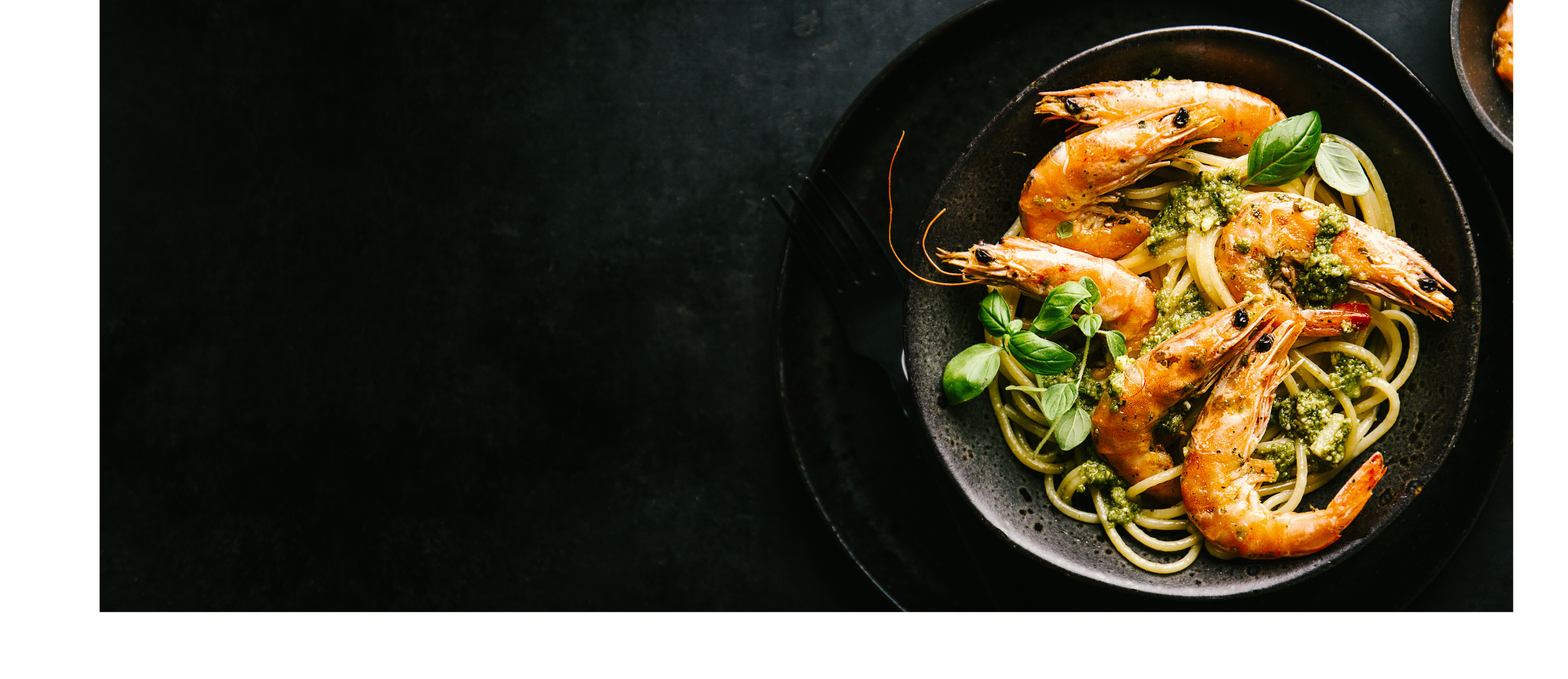
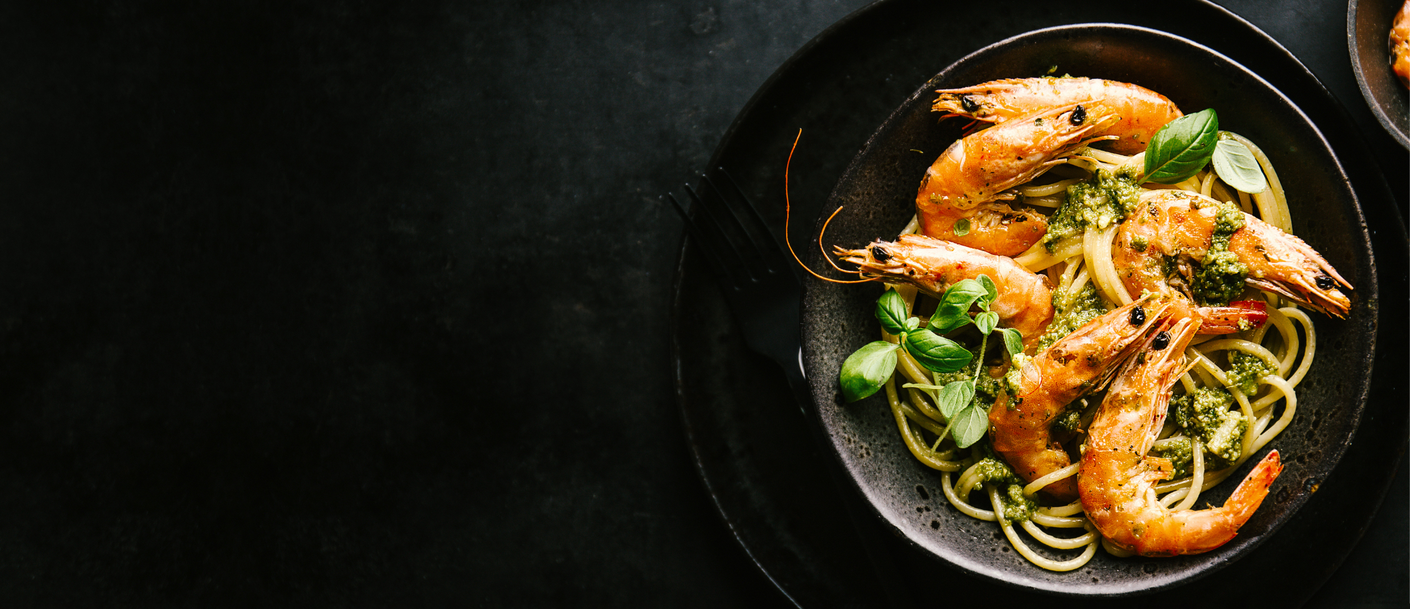
updated image and css, resized layout and updated font

diff --git a/index.html b/index.html
@@ -7,6 +7,8 @@
   <title>Foody.</title>
   <link rel="stylesheet" href="style.css">
   <link rel="stylesheet" href="https://cdnjs.cloudflare.com/ajax/libs/font-awesome/4.7.0/css/font-awesome.min.css">
+  <link rel="preconnect" href="https://fonts.gstatic.com">
+<link href="https://fonts.googleapis.com/css2?family=Castoro&display=swap" rel="stylesheet">
 </head>
 
 <body class="general-container">
@@ -21,10 +23,10 @@
 
   <div class="list-container">
      <div class="list-buttons">
-        <a href="#">Home | </a>  
-        <a href="#">About |  </a>
-        <a href="#">Menu |  </a>
-        <a href="#">Services |  </a>
+        <a href="#">Home  </a>|  
+        <a href="#">About  </a>|
+        <a href="#">Menu  </a>|
+        <a href="#">Services </a>|
         <a href="#">Contact </a>
      </div> 
       <div class="nav-menu">
@@ -33,7 +35,7 @@
         <div class="menubar3"></div>
       </div>
      <div class="buy-now-button-container">
-      <button class="buynowbutton">Buy Now</button>
+      <button class="buynowbutton">Order Now</button>
      </div>
   </div>
 </div>
@@ -44,21 +46,19 @@
 
 <main class="main">    
    
-        
-        <div class="header-container">
-        <h1 class="making-food-header">Making Food Taste Better.</h1>
-        </div>
-        
-        <div class="making-food-text-container">
-        <p class="making-food-text">Lorem Ipsum Lorem Moe moe <br>
-            Ipsum Lorem Ipsum Lorem Ipsum Lorem Ipsum Lorem Ipsum Lorem Ipsum Lorem Ipsum Lorem Ipsum Lorem Ipsum</br> 
-            Strip steak tenderloin kevin magna dolore short ribs fatback t-bone ex. 
-            <br>Adipisicing turkey sunt aliquip ut spare ribs fatback do venison, ipsum pork loin aliqua pig.
-            Drumstick fugiat adipisicing veniam, alcatra beef ribs ball tip. Pork proident dolor picanha reprehenderit nisi in landjaeger. 
-        </br>Eiusmod porchetta dolore elit turkey pork belly.Bacon ipsum dolor amet ground round venison jerky ea ut sunt ad ipsum meatloaf pork belly anim ham chislic.</p>
-       <button class="more-details-button"><a href="#">More Details</a></button>
-      </div>
-        
+  <div class="main-container">  
+    <div class="making-food-text-container">
+      <h1 class="making-food-header">Making Food Taste Better.</h1>
+      <p class="making-food-text">
+        Strip steak tenderloin kevin magna dolore short ribs fatback t-bone ex. 
+        <br>Adipisicing turkey sunt aliquip ut spare ribs fatback do venison.
+        </br>Eiusmod porchetta dolore elit turkey pork belly.
+      </p>
+    </div>
+    <div> 
+      <button class="more-details-button"><a href="#">More Details</a></button>
+    </div>
+  </div>
        
     
 
@@ -74,7 +74,8 @@
     
         <div class="left-column-container">
         <h1 class="aboutus-header">About Us</h1> 
-        <p class="aboutus-text"> Lorem Ipsum <br> Bacon ipsum dolor amet ground <br>round venison jerky ea ut sunt ad ipsum meatloaf pork belly anim ham chislic. <br>Flank aliqua in, tempor sirloin ad exercitation capicola filet mignon landjaeger enim hamburger porchetta. <br> steak tenderloin kevin magna dolore short ribs fatback t-bone ex. Adipisicing turkey sunt aliquip ut spare ribs fatback do venison, ipsum pork loin aliqua pig. Drumstick fugiat adipisicing veniam, alcatra beef ribs ball tip. Pork proident dolor picanha reprehenderit nisi in landjaeger. Eiusmod porchetta dolore elit turkey pork belly</br> </p>
+        <p class="aboutus-text"> Lorem Ipsum Bacon ipsum dolor amet ground. Bacon ipsum dolor amet ground<br> 
+        <br>Round venison jerky ea ut sunt ad ipsum meatloaf pork belly anim ham chislic.Flank aliqua in, tempor sirloin ad exercitation capicola filet mignon landjaeger enim hamburger porchetta. Steak tenderloin kevin magna dolore short ribs fatback t-bone ex. Adipisicing turkey sunt aliquip ut spare ribs fatback do venison, ipsum pork loin aliqua pig. Drumstick fugiat adipisicing veniam, alcatra beef ribs ball tip. Round venison jerky ea ut sunt ad ipsum meatloaf pork belly anim ham chislic.Flank aliqua in, tempor sirloin ad exercitation capicola filet mignon land jaeger enim hamburger porchetta.</p>
         <button class="more-details-button2"><a href="#">More Details</a></button>
         </div>
         
@@ -91,14 +92,27 @@
         
         <div class="specialities-container">
             <h1 class="specialities">Our Specialities</h1>
-            <p class="specialities-p">Gumbo beet greens corn soko endive gumbo gourd. Parsley shallot courgette tatsoi pea sprouts fava bean. <br>Gumbo beet greens corn soko endive gumbo gourd.</br></p>
+            <p class="specialities-p">Gumbo beet greens corn soko endive gumbo gourd. Parsley shallot courgette tatsoi<br>Gumbo beet greens corn soko.</br></p>
         </div>
        
         <div class="small-image-container">
-            <img class="img1" src="./small-shrimpdish1.jpg">
-            <img class="img2" src="./small-shrimpdish2.jpg">
-            <img class="img3" src="./small-shrimpdish3.jpg">
-            <img class="img4" src="./small-shrimpdish2.jpg">
+          
+          <div class="card">
+          <img class="img1" src="./small-shrimpdish1.jpg">
+          <p>Italiano - $19.99</p>
+          </div>
+          <div class="card">
+          <img class="img2" src="./small-shrimpdish2.jpg">
+          <p>Lemonia - $19.99</p>
+          </div>
+          <div class="card">
+          <img class="img3" src="./small-shrimpdish3.jpg">
+          <p>Mangua- $19.99</p>
+          </div>
+          <div class="card">
+          <img class="img4" src="./small-shrimpdish2.jpg">
+          <p>Biriyani- $19.99</p>
+          </div>
         </div>
 
     </div>

diff --git a/style.css b/style.css
@@ -7,13 +7,13 @@ html {
 .general-container {
   display: grid;
   grid-template-rows:
-    1fr
-    1fr
-    1fr
-    1fr
-    1fr
-    1fr
-    1fr;
+    auto
+    800px
+    450px
+    580px
+    1000px
+    600px
+    120px;
   grid-template-columns: none;
   grid-template-areas:
     "nav"
@@ -23,8 +23,8 @@ html {
     "main4"
     "main5"
     "footer";
-  height: 100vh;
   margin: 0;
+  font-family: "Castoro", serif;
 }
 nav {
   grid-area: nav;
@@ -36,25 +36,28 @@ nav {
   flex-direction: row;
   justify-content: space-between;
   align-items: center;
-  padding: 5px;
+  max-height: 50px;
 }
-
+a {
+  padding: 10px;
+}
 .logo {
   color: white;
   text-align: center;
   flex-direction: row;
 }
 .logo-container {
-  font-size: 20px;
+  font-size: 30px;
+  margin-left: 150px;
 }
 .list-container {
-  text-align: center;
   display: flex;
+  flex-direction: row;
   align-items: center;
-  justify-content: space-between;
-  margin: 10px;
-  padding: 10px;
+  margin-right: 100px;
+  justify-content: space-evenly;
 }
+
 .list-buttons {
   text-align: center;
 }
@@ -62,6 +65,10 @@ nav {
 .buynowbutton {
   background-color: green;
   color: white;
+  margin-left: 25px;
+  padding: 10px 18px;
+  border-radius: 5px;
+  border: none;
 }
 a {
   color: white;
@@ -72,55 +79,51 @@ a {
 .menubar1,
 .menubar2,
 .menubar3 {
-  width: 35px;
-  height: 5px;
+  width: 28px;
+  height: 2px;
   background-color: white;
   margin: 6px 0;
+  border-radius: 2px;
+  margin-left: 10px;
 }
 
 main {
   grid-area: main;
-  background-color: black;
-  background-image: url(./shrimpdish2.jpg);
+  background-image: url(./3041.jpg);
   background-repeat: no-repeat;
-  background-size: 125%;
-  background-position: center center;
-  margin: 0;
-  padding: 100px;
+  background-size: contain;
 }
 .main-container {
   display: flex;
-  flex-wrap: wrap;
-  flex-direction: row;
+  flex-direction: column;
   position: relative;
-  top: 60px;
-  left: 100px;
-  margin-bottom: 100px;
+  top: 150px;
+  left: 150px;
+  /* margin-bottom: 100px; */
 }
 .header-container {
-  margin-right: 500px;
+  /* margin-right: 500px; */
 }
 .making-food-header {
   color: white;
-  font-size: 250%;
-  align-self: start;
+  font-size: 56px;
 }
 
 .making-food-text-container {
-  margin-right: 500px;
-  font-size: 80%;
+  /* margin-right: 500px; */
+  /* font-size: 80%; */
 }
 
 .making-food-text {
   color: white;
-  display: flex;
-  flex-direction: column;
-  align-items: flex-start;
 }
 .more-details-button {
   background-color: green;
   color: white;
-  padding: 5px 20px;
+  padding: 10px 20px;
+  font-family: "Castoro", serif;
+  border-radius: 5px;
+  border: none;
 }
 
 .main2 {
@@ -133,28 +136,36 @@ main {
 
 .aboutus-header {
   color: green;
+  font-size: 45px;
 }
 .aboutus-text {
   margin-right: 150px;
 }
 .more-details-button2 {
   background-color: green;
+  border-radius: 5px;
+  border: none;
 }
 .left-column-container {
-  margin-left: 100px;
+  margin-left: 150px;
+  margin-bottom: 200px;
+  margin-right: 10px;
+  color: grey;
 }
 
 .shrimpdish {
-  margin-right: 50px;
+  margin-right: 100px;
+  height: 500px;
+  width: 500px;
+  margin-bottom: 150px;
 }
 
 .main3 {
   grid-area: main3;
-  background: url(./shrimpdish3.jpg) no-repeat center center;
+  background: url(./shrimpdish3.jpg);
+  background-color: black;
+  background-size: 100%;
   background-repeat: no-repeat;
-  width: 100%;
-  background-size: 125%;
-  margin: 0;
   display: flex;
   flex-direction: row;
   flex-wrap: wrap;
@@ -162,15 +173,56 @@ main {
   align-items: center;
   align-content: center;
 }
-
+.main3-specialities-images-container {
+  margin-bottom: 60px;
+}
+.small-image-container {
+  display: flex;
+  flex-direction: row;
+  align-items: center;
+}
+.card {
+  margin: auto;
+  text-align: center;
+  font-family: arial;
+  background-color: white;
+  margin: 15px;
+  height: 220px;
+  width: 185px;
+}
+.img1 {
+  height: 160px;
+  margin-top: 2px;
+  width: 180px;
+}
+.img2 {
+  height: 160px;
+  width: 180px;
+  margin-top: 2px;
+}
+.img3 {
+  height: 160px;
+  width: 180px;
+  margin-top: 2px;
+}
+.img4 {
+  height: 160px;
+  width: 180px;
+  margin-top: 2px;
+}
 .specialities-container {
   text-align: center;
+  margin-bottom: 00px;
 }
 .specialities {
   color: green;
+  font-size: 45px;
+  margin-top: 75px;
 }
 .specialities-p {
   color: white;
+  margin-left: 100px;
+  margin-right: 100px;
 }
 
 .main4 {
@@ -201,6 +253,7 @@ h2 {
 }
 .our-menu-container {
   color: green;
+  margin-top: 50px;
 }
 .heading-under-ourmenu {
   text-align: center;
@@ -216,6 +269,14 @@ h2 {
 .more-details-button2 {
   background-color: green;
   padding: 10px 15px;
+  border-radius: 2px;
+  border: none;
+}
+.more-details-button3 {
+  background-color: green;
+  padding: 10px 15px;
+  border-radius: 2px;
+  border: none;
 }
 .main5 {
   grid-area: main5;
@@ -311,7 +372,7 @@ footer {
   nav {
     grid-area: nav;
   }
-  
+
   .main {
     grid-area: main;
     flex-direction: row;
